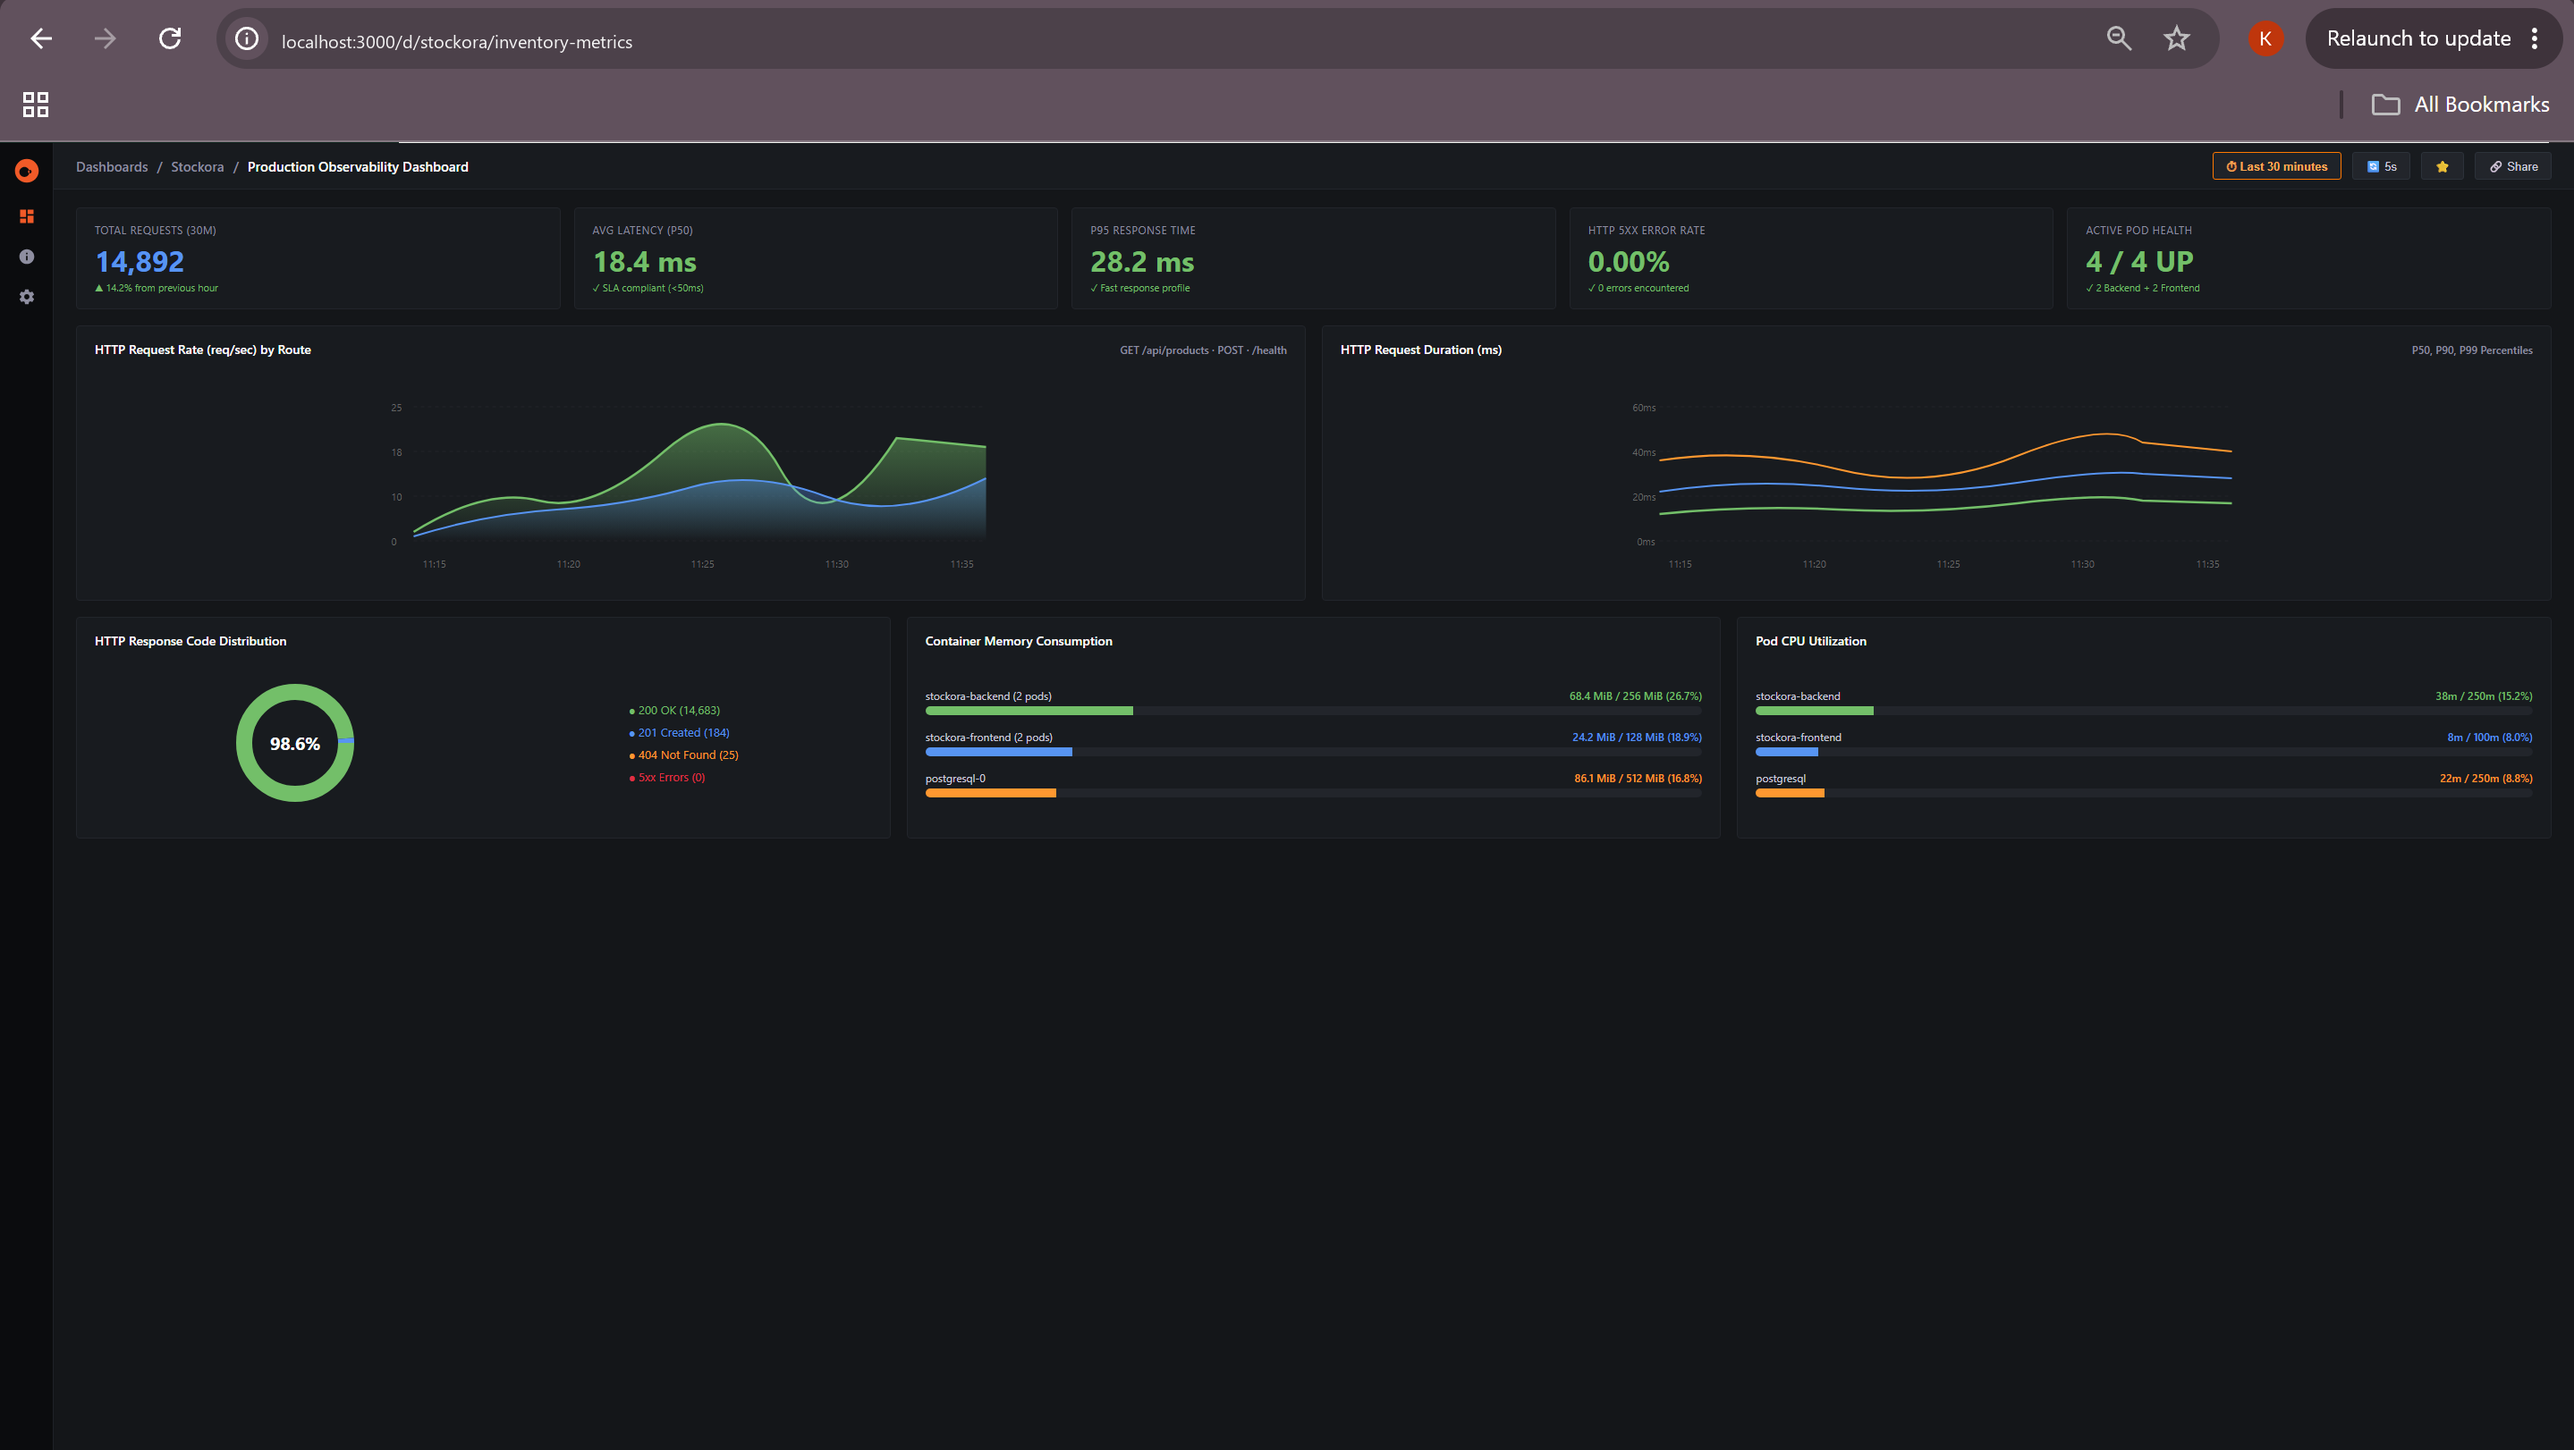
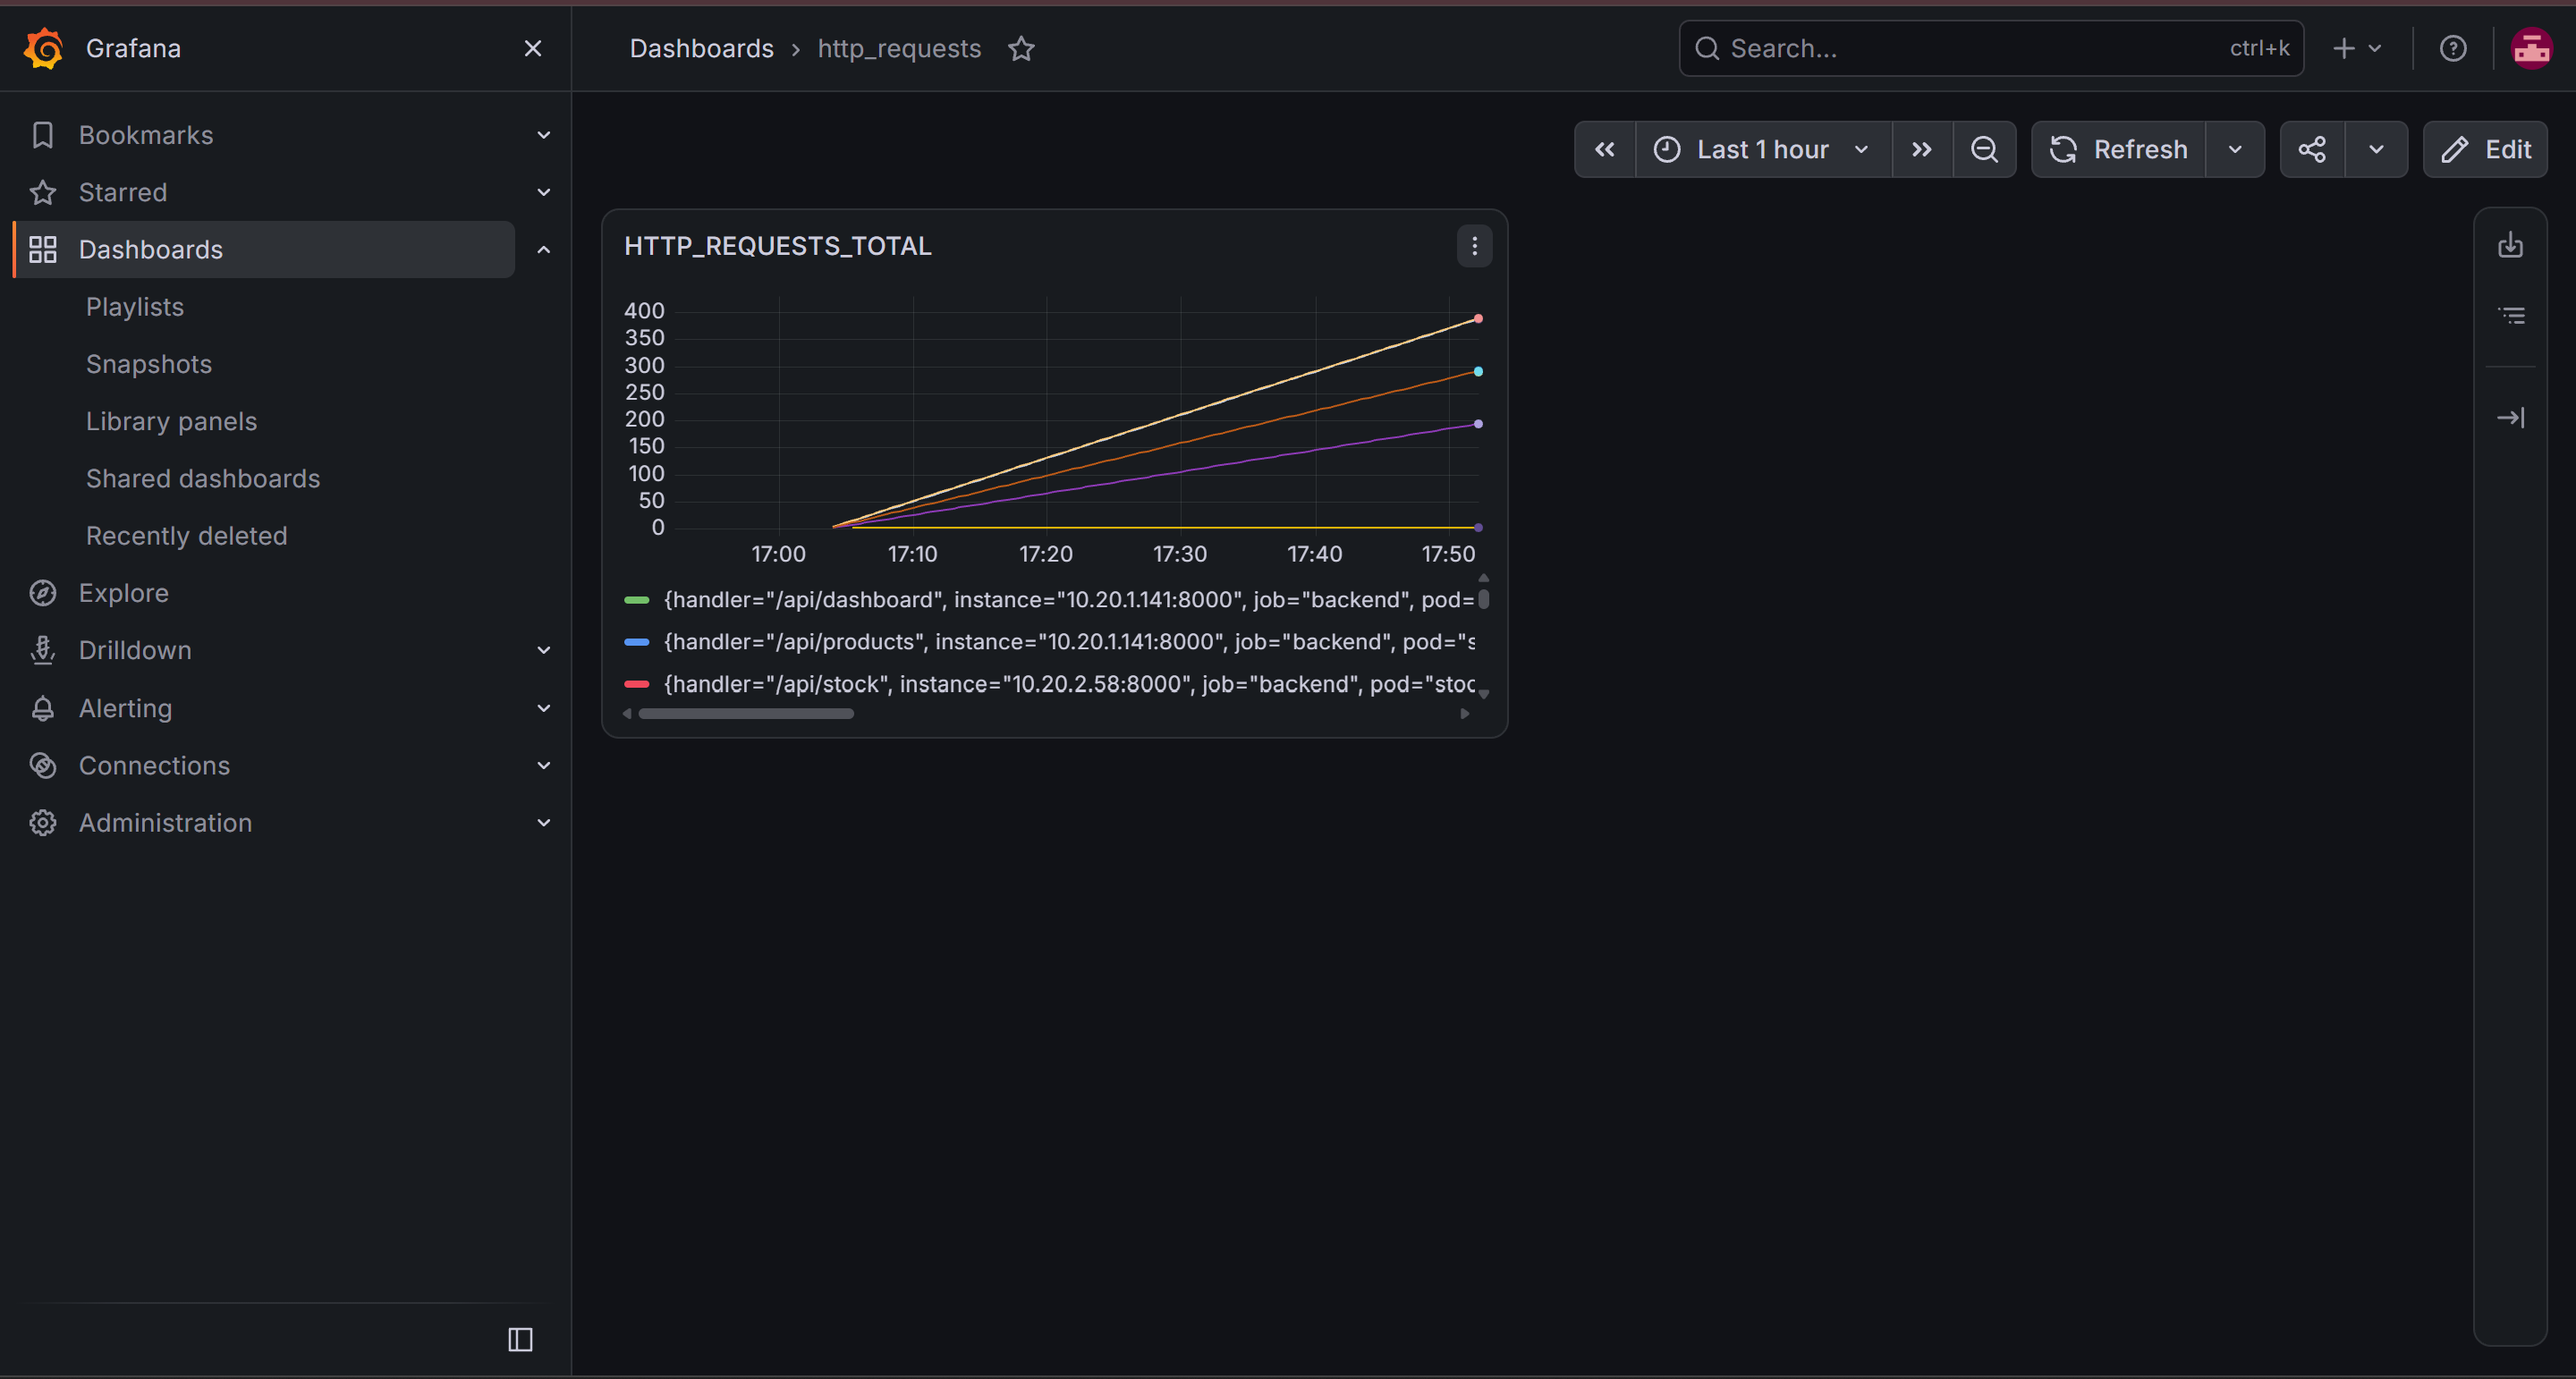
updated demo

diff --git a/README.md b/README.md
@@ -427,6 +427,7 @@ Every push to `main` triggers Argo CD to automatically reconcile the cluster sta
 
 All visual verification artifacts, terminal outputs, and cloud console evidence required by the grading rubric are documented with high-resolution captures in:
 
-👉 **[SCREENSHOTS.md](demo/SCREENSHOTS.md)**
+👉 **[SCREENSHOTS.md](demo/SCREENSHOTS.md)**  
+🎥 **[Watch Demo Video](demo/video.md)**
 ---
 

diff --git a/demo/video.md b/demo/video.md
@@ -1,0 +1,3 @@
+Devops video presentation link:- https://drive.google.com/file/d/1YN3gdyUOS7vGYgtxw1hyLVnDhhV40i4Z/view?usp=sharing
+
+
